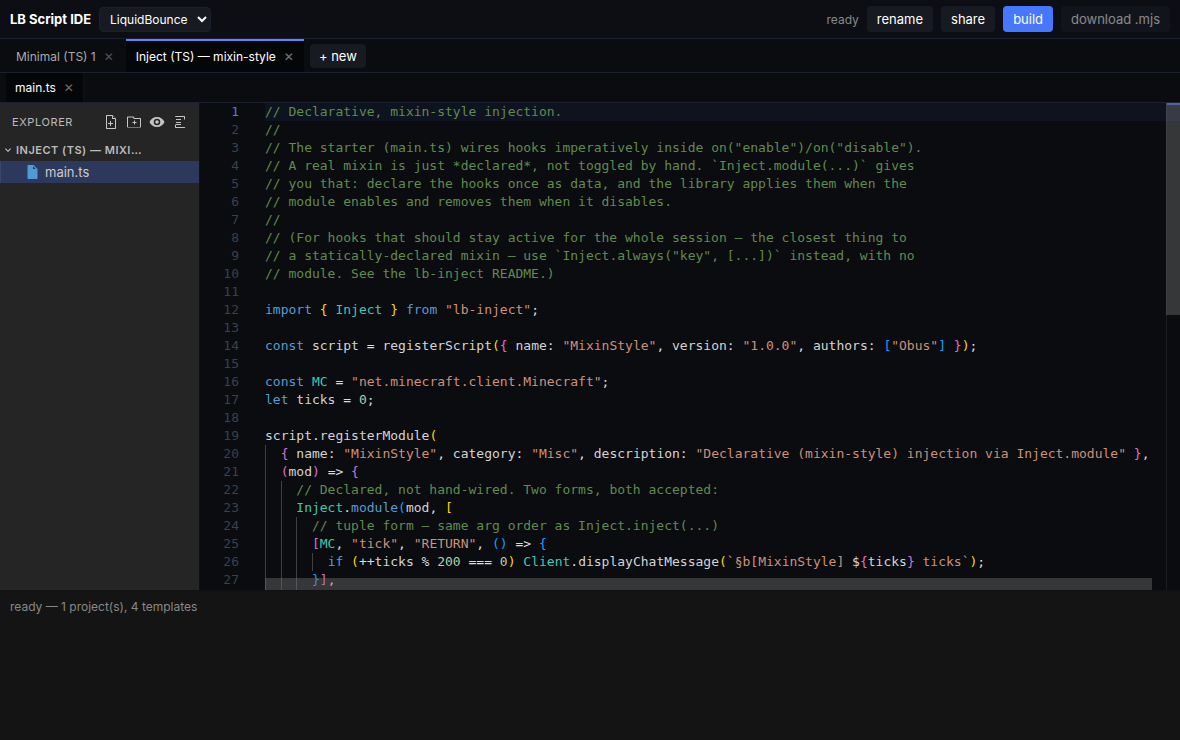
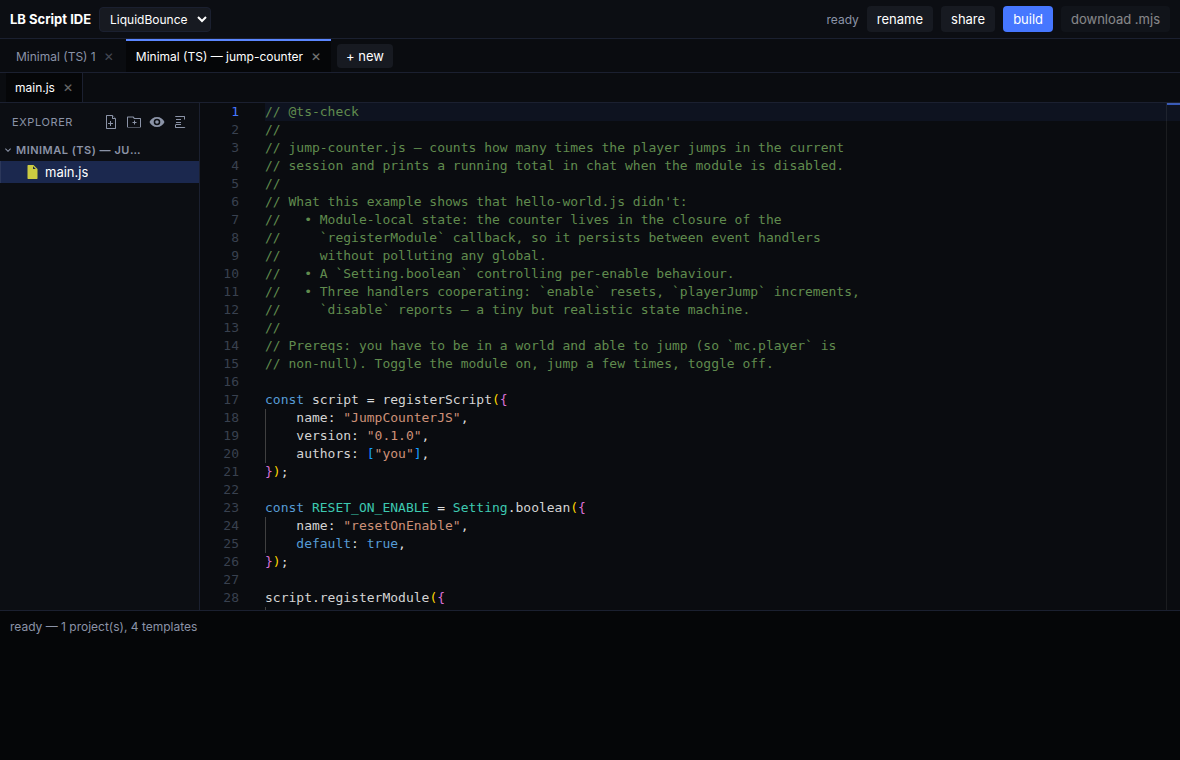
Theme consistency: route remaining hardcoded panel/border/text colors through theme variables; add --run token; fixes LiquidBounce theme looking inconsistent

diff --git a/app/public/index.html b/app/public/index.html
@@ -8,7 +8,7 @@
     /* themeable design tokens — overridden at runtime by the theme system */
     :root {
       --bg:#1e1e1e; --bg2:#252526; --bg3:#2d2d2d; --bg4:#1b1b1b; --fg:#d4d4d4; --fgdim:#888;
-      --acc:#0e639c; --acc2:#1177bb; --err:#f48771; --ok:#89d185;
+      --acc:#0e639c; --acc2:#1177bb; --err:#f48771; --ok:#89d185; --run:#2d7d33;
       --hover:#2a2d2e; --sel:#094771; --border:#111; --glassrgb:30,30,33;
       --font: ui-monospace, "SF Mono", Menlo, monospace;
     }
@@ -33,7 +33,7 @@
     #themeSel { font:inherit; font-size:12px; background:var(--bg3); color:var(--fg); border:1px solid var(--border); border-radius:4px; padding:3px 6px; cursor:pointer; }
     /* project tab bar */
     #tabs { display:flex; align-items:stretch; gap:2px; background:var(--bg4); border-bottom:1px solid var(--border); padding:0 6px; overflow-x:auto; min-height:34px; }
-    .ptab { display:flex; align-items:center; gap:8px; padding:6px 10px; font-size:12px; cursor:pointer; color:#aaa; border-top:2px solid transparent; white-space:nowrap; }
+    .ptab { display:flex; align-items:center; gap:8px; padding:6px 10px; font-size:12px; cursor:pointer; color:var(--fgdim); border-top:2px solid transparent; white-space:nowrap; }
     .ptab:hover { background:var(--bg3); }
     .ptab.active { background:var(--bg); color:#fff; border-top-color:var(--acc2); }
     .ptab .x { opacity:.45; } .ptab .x:hover { opacity:1; color:var(--err); }
@@ -41,41 +41,41 @@
     /* file tab bar (open editors in the current project) */
     #ftabs { display:flex; align-items:stretch; gap:1px; background:var(--bg4); border-bottom:1px solid var(--border); padding:0 6px; overflow-x:auto; min-height:30px; }
     #ftabs:empty { display:none; }
-    .ftab { display:flex; align-items:center; gap:8px; padding:4px 9px; font-size:12px; cursor:pointer; color:#9a9a9a; border-right:1px solid #111; white-space:nowrap; }
-    .ftab:hover { background:var(--bg3); color:#ccc; }
+    .ftab { display:flex; align-items:center; gap:8px; padding:4px 9px; font-size:12px; cursor:pointer; color:var(--fgdim); border-right:1px solid var(--border); white-space:nowrap; }
+    .ftab:hover { background:var(--bg3); color:var(--fg); }
     .ftab.active { background:var(--bg); color:#fff; }
     .ftab .dir { color:#666; }
     .ftab .x { opacity:.4; } .ftab:hover .x { opacity:.7; } .ftab .x:hover { opacity:1; color:var(--err); }
     #newProj { align-self:center; margin-left:4px; background:var(--bg3); color:#fff; border:0; border-radius:4px; padding:4px 9px; font:inherit; font-size:13px; cursor:pointer; }
     #newProj:hover { background:var(--hover); }
     /* template menu */
-    #tmplMenu, #tmplSub { position:fixed; z-index:50; background:var(--bg2); border:1px solid #111; border-radius:6px; box-shadow:0 6px 24px #000a; padding:4px; display:none; }
+    #tmplMenu, #tmplSub { position:fixed; z-index:50; background:var(--bg2); border:1px solid var(--border); border-radius:6px; box-shadow:0 6px 24px #000a; padding:4px; display:none; }
     #tmplMenu { min-width:200px; }
     #tmplSub { min-width:230px; max-height:74vh; overflow:auto; }
     #tmplMenu .row, #tmplMenu .item, #tmplSub .item { padding:7px 10px; border-radius:4px; cursor:pointer; display:flex; align-items:center; gap:8px; white-space:nowrap; }
-    #tmplMenu .row .arrow { margin-left:auto; color:#888; }
+    #tmplMenu .row .arrow { margin-left:auto; color:var(--fgdim); }
     #tmplMenu .row:hover, #tmplMenu .row.active, #tmplMenu .item:hover, #tmplSub .item:hover { background:var(--acc); }
     #tmplMenu .item b, #tmplSub .item b { font-size:13px; font-weight:500; }
-    #tmplMenu .item span, #tmplSub .item span { display:block; font-size:11px; color:#9a9a9a; }
+    #tmplMenu .item span, #tmplSub .item span { display:block; font-size:11px; color:var(--fgdim); }
     #tmplMenu .item:hover span, #tmplSub .item:hover span { color:#dde; }
     #tmplMenu .sep { height:1px; background:#ffffff18; margin:4px 6px; }
     #mid { display:grid; grid-template-columns:200px 1fr; min-height:0; }
-    #side { background:#252526; border-right:1px solid #111; overflow:auto; font-size:13px; }
-    #side::-webkit-scrollbar { width:10px; } #side::-webkit-scrollbar-thumb { background:#424242; }
-    #sideHead { display:flex; align-items:center; justify-content:space-between; gap:6px; padding:8px 8px 6px 12px; font-size:11px; text-transform:uppercase; letter-spacing:.6px; color:#bbb; position:sticky; top:0; background:#252526; z-index:2; }
+    #side { background:var(--bg2); border-right:1px solid var(--border); overflow:auto; font-size:13px; }
+    #side::-webkit-scrollbar { width:10px; } #side::-webkit-scrollbar-thumb { background:var(--bg3); }
+    #sideHead { display:flex; align-items:center; justify-content:space-between; gap:6px; padding:8px 8px 6px 12px; font-size:11px; text-transform:uppercase; letter-spacing:.6px; color:var(--fgdim); position:sticky; top:0; background:var(--bg2); z-index:2; }
     #sideHead .sideActs { display:flex; gap:1px; }
-    #sideHead button { font:inherit; background:transparent; color:#c5c5c5; border:0; border-radius:5px; width:22px; height:22px; padding:0; cursor:pointer; display:flex; align-items:center; justify-content:center; }
+    #sideHead button { font:inherit; background:transparent; color:var(--fgdim); border:0; border-radius:5px; width:22px; height:22px; padding:0; cursor:pointer; display:flex; align-items:center; justify-content:center; }
     #sideHead button:hover { background:#ffffff1a; }
     #sideHead button svg { width:16px; height:16px; }
     #sideHead button.on { background:var(--acc); color:#fff; }
     #sideHead button.on:hover { background:var(--acc2); }
     /* VS Code-style tree rows */
-    .tv-row { display:flex; align-items:center; height:22px; padding-right:6px; cursor:pointer; color:#cccccc; white-space:nowrap; user-select:none; }
+    .tv-row { display:flex; align-items:center; height:22px; padding-right:6px; cursor:pointer; color:var(--fg); white-space:nowrap; user-select:none; }
     .tv-row:hover { background:var(--hover); }
     .tv-row.active { background:var(--sel); }
     #side:focus-within .tv-row.active { background:var(--sel); }
     .tv-row .ig { width:8px; align-self:stretch; flex:none; box-shadow: inset 1px 0 0 #ffffff12; }
-    .tv-row .tw { width:16px; height:22px; flex:none; display:flex; align-items:center; justify-content:center; color:#c5c5c5; }
+    .tv-row .tw { width:16px; height:22px; flex:none; display:flex; align-items:center; justify-content:center; color:var(--fgdim); }
     .tv-row .tw svg { width:16px; height:16px; transition:transform .08s ease; }
     .tv-row .tw.closed svg { transform:rotate(-90deg); }
     .tv-row .ic { width:16px; height:16px; flex:none; margin-right:5px; display:flex; align-items:center; justify-content:center; }
@@ -83,28 +83,28 @@
     .tv-row .nm { overflow:hidden; text-overflow:ellipsis; }
     .tv-row.dim .nm { opacity:.55; }
     .tv-row.dim .ic { opacity:.6; }
-    .tv-row.root .nm { text-transform:uppercase; font-size:11px; letter-spacing:.5px; color:#bbb; font-weight:600; }
+    .tv-row.root .nm { text-transform:uppercase; font-size:11px; letter-spacing:.5px; color:var(--fgdim); font-weight:600; }
     .tv-row .acts { margin-left:auto; display:flex; gap:1px; opacity:0; padding-left:6px; }
     .tv-row:hover .acts { opacity:1; }
-    .tv-row .acts .b { width:20px; height:20px; display:flex; align-items:center; justify-content:center; color:#c5c5c5; border-radius:5px; }
+    .tv-row .acts .b { width:20px; height:20px; display:flex; align-items:center; justify-content:center; color:var(--fgdim); border-radius:5px; }
     .tv-row .acts .b:hover { background:#ffffff1f; }
     .tv-row .acts .b svg { width:15px; height:15px; }
     #editor { min-width:0; }
-    #log { height:150px; background:#141414; border-top:1px solid #111; overflow:auto; padding:8px 10px; font-size:12px; white-space:pre-wrap; }
+    #log { height:150px; background:var(--bg); border-top:1px solid var(--border); overflow:auto; padding:8px 10px; font-size:12px; white-space:pre-wrap; }
     #log .e { color:var(--err); }
     #log .s { color:var(--ok); }
-    #log .d { color:#888; }
-    #status { font-size:12px; color:#888; }
+    #log .d { color:var(--fgdim); }
+    #status { font-size:12px; color:var(--fgdim); }
     /* REPL panel */
     #repl { display:none; position:absolute; left:0; right:0; bottom:0; height:46%; background:var(--bg2); border-top:2px solid var(--acc); z-index:40; flex-direction:column; }
     #repl.open { display:flex; }
     #replHead { display:flex; align-items:center; gap:8px; padding:6px 10px; font-size:13px; background:var(--bg2); border-bottom:1px solid var(--border); }
     #replHead button { font:inherit; background:var(--acc); color:#fff; border:0; border-radius:4px; padding:4px 10px; cursor:pointer; }
     #replHead button.ghost { background:var(--bg3); }
-    #replHead button.ghost.on { background:#2d7d33; color:#fff; }
+    #replHead button.ghost.on { background:var(--run); color:#fff; }
     #replEditor { flex:1; min-height:0; }
-    #replOut { height:38%; overflow:auto; padding:6px 10px; font-size:12px; white-space:pre-wrap; border-top:1px solid #111; background:#141414; }
-    #replOut .in { color:#e0a060; } #replOut .ok { color:#89d185; } #replOut .err { color:#f48771; } #replOut .log { color:#bbb; } #replOut .stream { color:#6cb6ff; }
+    #replOut { height:38%; overflow:auto; padding:6px 10px; font-size:12px; white-space:pre-wrap; border-top:1px solid var(--border); background:var(--bg); }
+    #replOut .in { color:#e0a060; } #replOut .ok { color:var(--ok); } #replOut .err { color:var(--err); } #replOut .log { color:var(--fgdim); } #replOut .stream { color:#6cb6ff; }
   </style>
 </head>
 <body>
@@ -117,7 +117,7 @@
       <button id="rename" class="ghost">rename</button>
       <button id="share" class="ghost">share</button>
       <button id="build">build</button>
-      <button id="runClient" style="display:none; background:#2d7d33">build &amp; run in client</button>
+      <button id="runClient" style="display:none; background:var(--run)">build &amp; run in client</button>
       <button id="autoRun" class="ghost" style="display:none" title="rebuild &amp; reload in client on every edit">hot-reload: off</button>
       <button id="dbg" class="ghost" style="display:none" title="load with a GraalJS inspector (chrome devtools)">debug: off</button>
       <button id="replBtn" class="ghost" style="display:none" title="live REPL — eval snippets in the client">repl</button>
@@ -154,7 +154,7 @@
   <div id="tmplSub"></div>
   <div id="repl">
     <div id="replHead">
-      <strong>REPL</strong> <span style="color:#888">— eval in the client · Ctrl/Cmd+Enter to run</span>
+      <strong>REPL</strong> <span style="color:var(--fgdim)">— eval in the client · Ctrl/Cmd+Enter to run</span>
       <span style="flex:1"></span>
       <button id="replLive" class="ghost" title="stream log(...) output live (SSE)">live log: off</button>
       <button id="replRun">run</button>

diff --git a/app/public/main.js b/app/public/main.js
@@ -518,13 +518,13 @@ const THEMES = {
   dark: {
     name: "Dark",
     editorBg: "#1e1e21",
-    vars: { bg: "#1e1e1e", bg2: "#252526", bg3: "#2d2d2d", bg4: "#1b1b1b", fg: "#d4d4d4", fgdim: "#888", acc: "#0e639c", acc2: "#1177bb", err: "#f48771", ok: "#89d185", hover: "#2a2d2e", sel: "#094771", border: "#111", glassrgb: "30,30,33", font: 'ui-monospace, "SF Mono", Menlo, monospace' },
+    vars: { bg: "#1e1e1e", bg2: "#252526", bg3: "#2d2d2d", bg4: "#1b1b1b", fg: "#d4d4d4", fgdim: "#888", acc: "#0e639c", acc2: "#1177bb", err: "#f48771", ok: "#89d185", run: "#2d7d33", hover: "#2a2d2e", sel: "#094771", border: "#111", glassrgb: "30,30,33", font: 'ui-monospace, "SF Mono", Menlo, monospace' },
     monaco: { base: "vs-dark", colors: {} },
   },
   liquidbounce: {
     name: "LiquidBounce",
     editorBg: "#0a0c10",
-    vars: { bg: "#050608", bg2: "#0c0e13", bg3: "#171a21", bg4: "#0a0c10", fg: "#ffffff", fgdim: "#8b93a7", acc: "#4677ff", acc2: "#5b86ff", err: "#fc4130", ok: "#4dac68", hover: "#ffffff14", sel: "#4677ff40", border: "#1b2030", glassrgb: "5,6,8", font: '"Inter", system-ui, -apple-system, "Segoe UI", Roboto, sans-serif' },
+    vars: { bg: "#050608", bg2: "#0c0e13", bg3: "#171a21", bg4: "#0a0c10", fg: "#ffffff", fgdim: "#8b93a7", acc: "#4677ff", acc2: "#5b86ff", err: "#fc4130", ok: "#4dac68", run: "#2f9e57", hover: "#ffffff14", sel: "#4677ff40", border: "#1b2030", glassrgb: "5,6,8", font: '"Inter", system-ui, -apple-system, "Segoe UI", Roboto, sans-serif' },
     monaco: { base: "vs-dark", colors: { "editor.background": "#0a0c10", "editor.lineHighlightBackground": "#4677ff12", "editor.selectionBackground": "#4677ff44", "editorCursor.foreground": "#4677ff", "editorLineNumber.foreground": "#39414f", "editorLineNumber.activeForeground": "#4677ff", "focusBorder": "#4677ff" } },
   },
 };